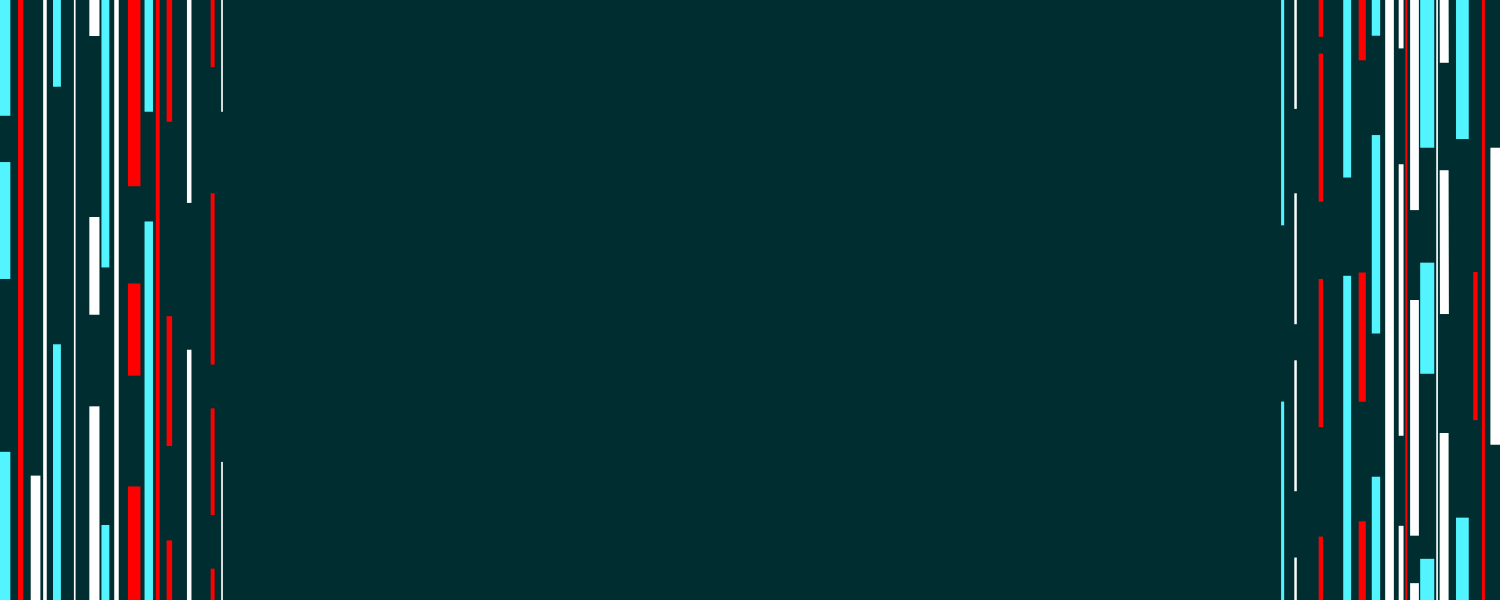
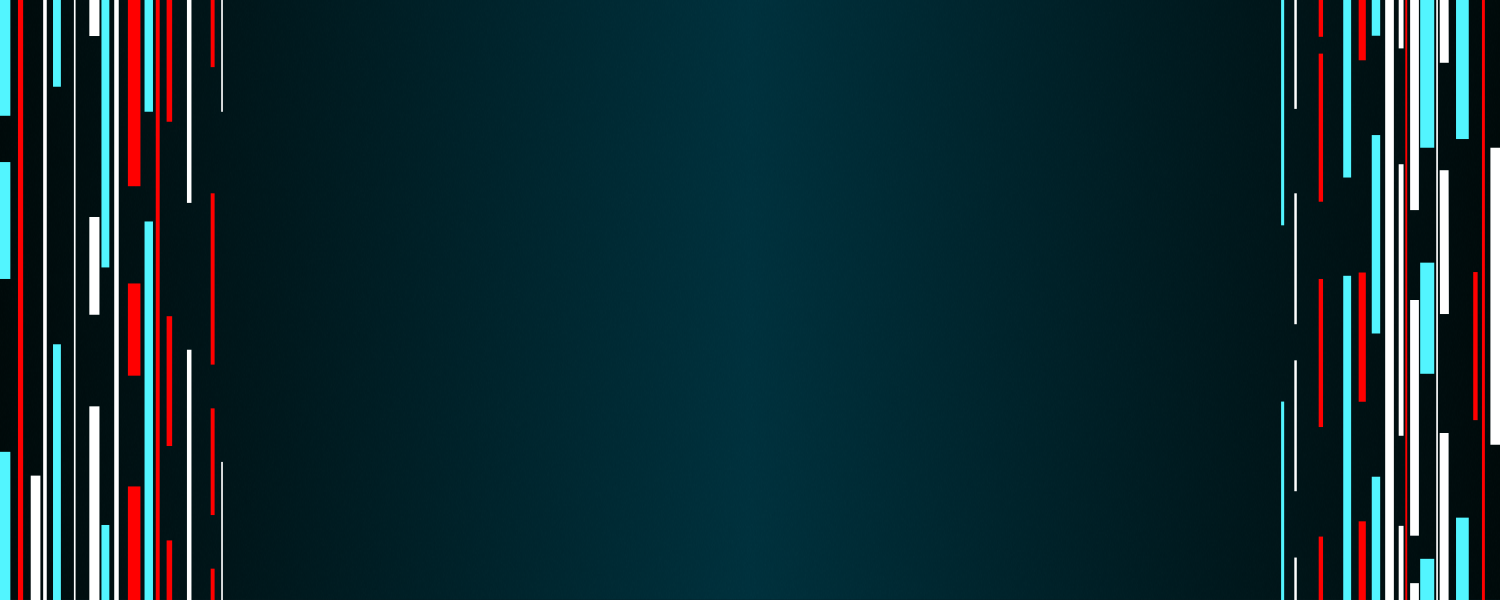
background colour to be less green

Changed region(s): [[0.8587, 0.0, 1.0, 1.0], [0.0, 0.0, 0.1533, 1.0]]

diff --git a/MainStyle.css b/MainStyle.css
@@ -15,7 +15,7 @@ src: url("Fonts/montserrat-regular.ttf");
 body {
   font-family: "montserrat";
   color: #FFFFFF;
-  background-color: #002D30;
+  background-color: #000A0A;
   font-variant: normal;
   background-image: url("Images/WebsiteDinobossBackgroundTop.png"), url("Images/WebsiteDinobossBackground.png");
   background-repeat: no-repeat, repeat-y;
